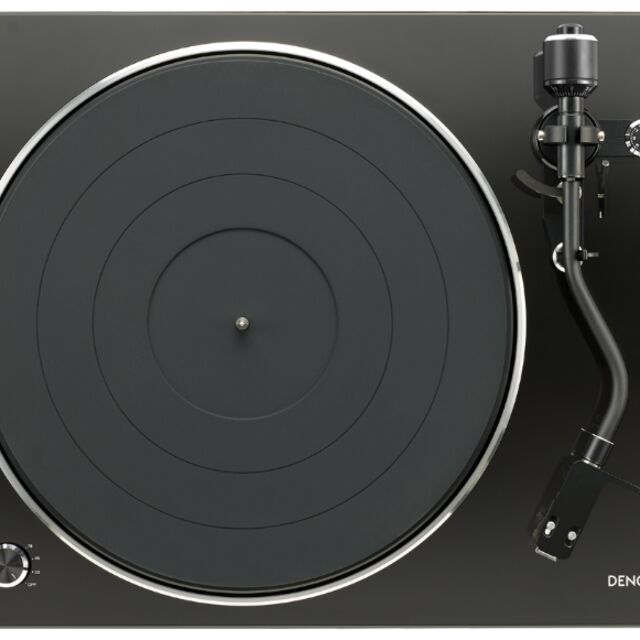
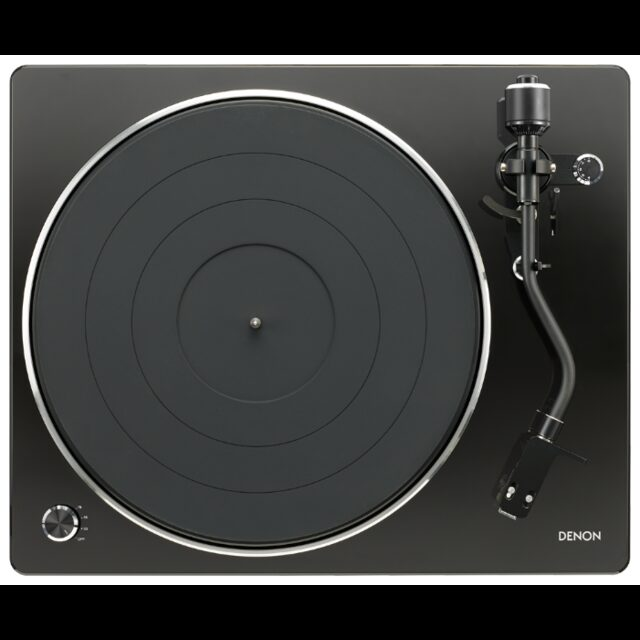
pkg3-114: высота плеера на телефоне числом, цвета как на ПК, удаление в карандаше, белые столбики, обводка окна на ПК, обложка 4 без обрезки

diff --git a/sega-chat/public/app.js b/sega-chat/public/app.js
@@ -8,7 +8,7 @@
 const $ = (s, r = document) => r.querySelector(s);
 const $$ = (s, r = document) => [...r.querySelectorAll(s)];
 // метка выпуска: видна в настройках и в журнале, чтобы всегда знать, что стоит в облаке
-const BUILD = 'pkg3-113';
+const BUILD = 'pkg3-114';
 /* pkg3-80: звук игр — модуль public/game-sound.js (синтез кодом, Web Audio).
    pkg3-81: одиннадцать правок владельца — карта не выделяется пальцем, «Далее»
    ждёт нажатия, находки пишутся прямо на карте, звук просыпается после сна
@@ -5268,8 +5268,7 @@ async function ydConnect() {
  *  браузер не умеет ни того, ни другого — остаётся неподвижный кадр.
  *  В «эконом-режиме» (S.eco) движение выключено совсем. */
 const MUS_VIZ_ANIM = '<picture class="mus-viz-anim">'
-  + '<source srcset="img/music-eq.webp" type="image/webp">'
-  + '<img src="img/music-eq.gif" alt=""></picture>';
+  + '<img src="img/music-eq.gif" alt=""></picture>';   // pkg3-114: белые столбики владельца; GIF 111 КБ (WebP вышел тяжелее)
 /** pkg3-112: полоса-эквалайзер между обложкой и перемоткой. Три состояния:
  *  «on» — играет (живая картинка), «still» — пауза посреди трека (стоп-кадр),
  *  «off» — трек не запущен / стоп / кончился (пустая рамка). В эконом-режиме
@@ -5327,6 +5326,58 @@ function musicNowUi() {
 /** pkg3-111: бегущая строка названия ходит ТУДА-ОБРАТНО и не показывает
  * пустоту: меряем, на сколько название шире своей ячейки, и отдаём это число
  * оформлению (--mq-shift). Влезает целиком — стоит на месте. */
+/** pkg3-114: убрать трек из плейлиста (из меню карандаша; раньше — крестик в строке). */
+async function musTrackRemove(pl, i) {
+  if (!pl || !pl.tracks || !pl.tracks[i]) return;
+  if (!confirm('Убрать трек «' + (pl.tracks[i].title || pl.tracks[i].url) + '» из плейлиста?')) return;
+  // pkg3-88: если убирают виджет, который звучит прямо сейчас, — гасим панель,
+  // иначе чужой плеер продолжал бы играть «без хозяина»
+  const gone = pl.tracks[i];
+  if (musicIsWidget(gone) && MUS.widget && MUS.widget.id === gone.id) musWidgetStop();
+  pl.tracks.splice(i, 1);
+  await musicSave(); openMusic(pl.id);
+}
+/** pkg3-114: высота плеера на телефоне считается ЧИСЛОМ, а не оформлением:
+ * iPhone дважды не дал колонке узнать свою высоту (113-й), и список выталкивал
+ * кнопки за экран. Теперь: окно = видимая высота экрана, тело = окно минус шапка,
+ * список = тело минус все остальные блоки. Пересчёт при открытии, повороте,
+ * смене размера и на тике звука. На ПК не вмешиваемся. */
+function musFitList() {
+  const md = document.getElementById('modal');
+  if (!md || !md.classList.contains('mus-modal') || md.classList.contains('hidden')) return;
+  const box = md.querySelector('.modal-box'), head = md.querySelector('.modal-head');
+  if (!window.matchMedia('(max-width:900px)').matches) {   // ПК: оформление справляется само
+    if (box) box.style.height = '';
+    return;
+  }
+  const body = document.getElementById('modal-body');
+  const wrap = body && body.querySelector('.mus-wrap');
+  const lw = wrap && wrap.querySelector('.mus-listwrap');
+  if (!box || !head || !body || !wrap || !lw) return;
+  const vh = (window.visualViewport && window.visualViewport.height) || window.innerHeight;
+  const land = document.documentElement.getAttribute('data-land');
+  const boxH = land ? window.innerWidth : vh;   // окно развёрнуто «стоймя» при повороте
+  box.style.height = boxH + 'px';
+  const bodyH = boxH - head.offsetHeight;
+  body.style.height = bodyH + 'px'; body.style.flex = 'none';
+  const cs = getComputedStyle(body);
+  const inner = bodyH - (parseFloat(cs.paddingTop) || 0) - (parseFloat(cs.paddingBottom) || 0);
+  wrap.style.height = inner + 'px'; wrap.style.flex = 'none';
+  const gap = parseFloat(getComputedStyle(wrap).rowGap || getComputedStyle(wrap).gap) || 4;
+  let others = 0, n = 0;
+  for (const el of wrap.children) {
+    if (el === lw) { n++; continue; }
+    const st = getComputedStyle(el);
+    if (st.display === 'none' || st.position === 'fixed') continue;
+    others += el.offsetHeight + (parseFloat(st.marginTop) || 0) + (parseFloat(st.marginBottom) || 0);
+    n++;
+  }
+  const h = Math.max(72, Math.floor(inner - others - gap * Math.max(0, n - 1)));
+  lw.style.height = h + 'px'; lw.style.flex = 'none'; lw.style.minHeight = '0';
+  const list = lw.querySelector('.mus-list');
+  if (list) { list.style.height = h + 'px'; list.style.maxHeight = h + 'px'; }
+  musSbarSync();
+}
 /** pkg3-113: своя полоса прокрутки списка на телефоне: iPhone родную прячет,
  * а владелец просил постоянную. Высота и положение бегунка — из прокрутки списка. */
 function musSbarSync() {
@@ -5371,7 +5422,7 @@ function musicTickUi() {
   // на паузе строка замирает и значок возвращается к ▶.
   const tog2 = document.getElementById('mus-toggle');
   if (tog2 && !MUS.widget) tog2.textContent = (!a.paused && !a.ended) ? '❚❚' : '▶';
-  musSbarSync();                      // pkg3-113: бегунок своей полосы прокрутки
+  musFitList();                       // pkg3-114: высота списка числом (телефон)
   const rowsBox = document.querySelector('#modal .mus-trs[data-pl]');
   if (rowsBox) {
     const rpl = rowsBox.getAttribute('data-pl');
@@ -5718,8 +5769,7 @@ async function openMusic(wantId) {
             <button class="mus-pbtn" data-mus-play="${i}" title="Играть / пауза">${cur && MUS.a && !MUS.a.paused ? '❚❚' : '▶'}</button>
             <span class="mus-ti" title="${escapeHtml(t.title || t.url || t.path || '')}"><span class="mq${(String(t.title || t.url || t.path || '').length > 24) ? '' : ' mq-s'}">${escapeHtml(t.title || t.url || t.path || '')}</span>${musicIsWidget(t) ? ` <span class="mus-badge-y" title="Встроенный плеер Яндекс.Музыки: звук играет Яндекс, а без входа в его аккаунт песни звучат отрывками по 30 секунд">Я · ${musicWhatRu(t.what)}</span>` : ''}${musicIsDisk(t) ? ' <span class="mus-badge-d" title="Файл с вашего Яндекс.Диска: играется по свежей временной ссылке, место на сервере не занимает">☁ диск</span>' : ''}</span>
             ${musicIsWidget(t) ? `<a class="mini mus-y-link" data-mus-y="${i}" href="${escapeHtml(t.page || t.url)}" target="_blank" rel="noopener noreferrer" title="Открыть в Яндекс.Музыке">↗</a>` : ''}
-            <button class="mus-rowb" data-mus-edit="${i}" title="Правка трека: название, ссылка, обложка">✎</button>
-            <button class="mus-rowb danger" data-mus-del="${i}" title="Убрать трек">✕</button>
+            <button class="mus-rowb" data-mus-edit="${i}" title="Правка трека: название, ссылка, обложка, убрать из плейлиста">✎</button>
           </div>`;
         }).join('') || '<div class="tiny muted">В плейлисте пока нет треков — добавьте первый через «⋯» → «Умная вставка».</div>'}</div>`
         : '<div class="tiny muted">Создайте первый плейлист кнопкой «Плейлисты ▾» — в нём будут треки-ссылки на файлы.</div>';
@@ -5804,6 +5854,7 @@ async function openMusic(wantId) {
   musicNowUi(); musicTickUi(); musVizSync();
   const list0 = $('#mus-list');
   if (list0) { list0.addEventListener('scroll', musSbarSync, { passive: true }); setTimeout(musSbarSync, 0); }
+  musFitList(); setTimeout(musFitList, 50); setTimeout(musFitList, 350);   // pkg3-114: сразу, после раскладки и после анимации появления
   const vol0 = $('#mus-vol');
   if (vol0) vol0.value = String(Math.round(musicAudio().volume * 100));
   // pkg3-105: три оверлея («⋯», «Плейлисты ▾», меню трека) — открыть/закрыть
@@ -5900,6 +5951,7 @@ async function openMusic(wantId) {
       + '<div class="mus-sec"><button class="mini" data-tm="ren">✎ название и ссылка</button> '
       + '<button class="mini" data-tm="cov">🖼 прикрепить обложку</button> '
       + (t.cover ? '<button class="mini" data-tm="uncov">убрать ручную обложку</button> ' : '')
+      + '<button class="mini mus-tm-del" data-tm="del">✕ убрать из плейлиста</button> '   // pkg3-114: крестик из строки переехал сюда
       + '<button class="mini" data-tm="close">Закрыть</button></div>';
     trOvl.classList.add('show');
     menu.onclick = async e => {
@@ -5907,6 +5959,7 @@ async function openMusic(wantId) {
       if (!bb) return;
       const act = bb.getAttribute('data-tm');
       if (act === 'close') { trOvl.classList.remove('show'); return; }
+      if (act === 'del') { trOvl.classList.remove('show'); await musTrackRemove(pl, i); return; }
       if (act === 'cov') {
         const fi = $('#mus-cov-file');
         if (!fi) return;
@@ -5947,17 +6000,6 @@ async function openMusic(wantId) {
       t.title = title.trim() || t.title || t.url;
       await musicSave(); openMusic(pl.id);
     };
-  });
-  for (const b of $$('#modal [data-mus-del]')) b.addEventListener('click', async () => {
-    if (!pl) return;
-    const i = Number(b.getAttribute('data-mus-del'));
-    if (!confirm('Убрать трек «' + (pl.tracks[i].title || pl.tracks[i].url) + '» из плейлиста?')) return;
-    // pkg3-88: если убирают виджет, который звучит прямо сейчас, — гасим панель,
-    // иначе чужой плеер продолжал бы играть «без хозяина»
-    const gone = pl.tracks[i];
-    if (musicIsWidget(gone) && MUS.widget && MUS.widget.id === gone.id) musWidgetStop();
-    pl.tracks.splice(i, 1);
-    await musicSave(); openMusic(pl.id);
   });
   const addTr = $('#mus-add-tr');
   if (addTr) addTr.addEventListener('click', async () => {
@@ -9022,7 +9064,9 @@ document.addEventListener('mousedown', e => {
   if (!e.target.closest('#emoji-pop,.emoji-btn')) closeEmoji();
 });
 window.addEventListener('resize', closeEmoji);
-window.addEventListener('resize', () => { if (S.musOpen) musSbarSync(); });   // pkg3-113
+window.addEventListener('resize', () => { if (S.musOpen) musFitList(); });   // pkg3-113/114
+window.addEventListener('orientationchange', () => { if (S.musOpen) { setTimeout(musFitList, 60); setTimeout(musFitList, 400); } });
+if (window.visualViewport) window.visualViewport.addEventListener('resize', () => { if (S.musOpen) musFitList(); });
 
 $('#notify-sound').addEventListener('change', async e => {
   S.notify.sound = e.target.checked;
@@ -9608,6 +9652,10 @@ function modal(title, html, opts) {
   const md = $('#modal');
   md.classList.remove('mus-modal');
   if (opts && opts.cls) md.classList.add(opts.cls);
+  // pkg3-114: высоты, посчитанные числом для плеера на телефоне, другим окнам не нужны
+  const bx = md.querySelector('.modal-box'), bd = md.querySelector('.modal-body');
+  if (bx) bx.style.height = '';
+  if (bd) { bd.style.height = ''; bd.style.flex = ''; }
   $('#modal-title').textContent = title;
   $('#modal-body').innerHTML = html;
   paintIcons($('#modal'));

diff --git a/sega-chat/public/styles.css b/sega-chat/public/styles.css
@@ -1819,6 +1819,10 @@ button.mini.mus-add-sm{width:auto;min-width:34px;margin-top:0;padding:2px 8px;fo
 .mus-v105 .mus-plsrow .mus-plsopen{flex:1 1 auto;text-align:left;white-space:nowrap;overflow:hidden;text-overflow:ellipsis}
 .mus-v105 .mus-listhead{font-size:12px;color:var(--accent-2);margin:2px 4px 6px}
 
+/* pkg3-114: на ПК у окна «Моя музыка» чёткая яркая обводка */
+#modal.mus-modal .modal-box{border:2px solid var(--accent-2);box-shadow:0 0 0 1px rgba(0,0,0,.25),0 0 22px rgba(47,198,246,.45),0 30px 70px rgba(5,25,40,.4)}
+.mus-v105 .mus-tm-del{border-color:var(--red);color:var(--red)}   /* pkg3-114: «убрать из плейлиста» в меню карандаша */
+
 /* ═══ pkg3-109/110: ТЕЛЕФОН — «Моя музыка» как настоящий плеер ═══
    Дефект 109-го: контейнер окна оставался «резиновым» (.mus-wrap наследовал
    flex-wrap:wrap), поэтому на телефоне содержимое не влезало по высоте и
@@ -1873,30 +1877,26 @@ button.mini.mus-add-sm{width:auto;min-width:34px;margin-top:0;padding:2px 8px;fo
   /* pkg3-111: окно музыки на телефоне — чёрный плеер до краёв экрана, без
      рамок и подложек (любая гамма: светлая, тёмная, синт) */
   #modal.mus-modal{background:#000}
-  #modal.mus-modal .modal-box{background:#000;border:0;color:#f2f2f2}
+  #modal.mus-modal .modal-box{background:#000;border:0;box-shadow:none;color:#f2f2f2}
   #modal.mus-modal .modal-head{background:#000;border-bottom:0}
   #modal.mus-modal .modal-head h3{color:#fff}
   #modal.mus-modal .modal-body{background:#000}
-  #modal.mus-modal .muted,#modal.mus-modal .tiny.muted{color:#9a9aa6}
-  #modal.mus-modal .mus-srow input{background:#141418;border:1px solid #2a2a32;color:#f2f2f2;border-radius:12px;padding:9px 12px}
-  #modal.mus-modal .mus-srow input::placeholder{color:#7d7d8a}
-  #modal.mus-modal .mini{background:#17171c;color:#e8e8ee;border-color:#2e2e38}
-  #modal.mus-modal .mini.primary{background:var(--accent);color:#fff;border-color:transparent}
-  #modal.mus-modal .mus-coverbox{border:1px solid #3a3a46;border-radius:14px;background:#000}
+  /* pkg3-114: кнопки, поля, список и рамки — ровно те же, что на ПК (свои
+     «телефонные» перекраски убраны); чёрный только сам фон окна и поля вокруг */
+  #modal.mus-modal .mus-srow input{border-radius:12px;padding:9px 12px}
+  #modal.mus-modal .mus-coverbox{border-radius:14px;background:#000}
   /* pkg3-112: список обведён и с постоянной полосой прокрутки */
-  #modal.mus-modal .mus-list{border:1px solid #3a3a46;background:#000;padding:4px;border-radius:12px;overflow-y:auto;
+  #modal.mus-modal .mus-list{background:#000;padding:4px;border-radius:12px;overflow-y:auto;
     scrollbar-width:none;-webkit-overflow-scrolling:touch}
   #modal.mus-modal .mus-list::-webkit-scrollbar{display:none;width:0;height:0}
-  #modal.mus-modal .mus-sbar{display:block;flex:0 0 6px;width:6px;border-radius:3px;background:#1f1f26;position:relative;overflow:hidden}
-  #modal.mus-modal .mus-sbar i{position:absolute;left:0;right:0;top:0;height:30%;border-radius:3px;background:#8a8a9c;min-height:24px}
+  #modal.mus-modal .mus-sbar{display:block;flex:0 0 6px;width:6px;border-radius:3px;background:var(--panel-2);border:1px solid var(--line);box-sizing:border-box;position:relative;overflow:hidden}
+  #modal.mus-modal .mus-sbar i{position:absolute;left:0;right:0;top:0;height:30%;border-radius:3px;background:var(--accent-2);min-height:24px}
   #modal.mus-modal .mus-sbar.none i{display:none}
-  #modal.mus-modal .mus-eq{height:36px;margin:0;border-color:#3a3a46}
+  #modal.mus-modal .mus-eq{height:36px;margin:0}
   #modal.mus-modal .mus-nowt{font-size:13px}
   #modal.mus-modal .mus-tr{padding:7px 6px}
-  #modal.mus-modal .mus-tr.cur{background:rgba(255,255,255,.08);outline:0}
-  #modal.mus-modal .mus-rowb{border-color:#2e2e38;color:#9a9aa6;background:transparent}
   #modal.mus-modal .mus-foot{border-top:1px solid var(--line);padding-top:10px;gap:10px}
-  #modal.mus-modal .mus-mwin{background:#101014;border-color:#2e2e38;color:#f2f2f2}
+  #modal.mus-modal .mus-mwin{color:#f2f2f2}
   /* меню «+»: список чатов под ним приглушается — сразу видно, что меню открыто */
   #plus-scrim{display:block;position:absolute;inset:0;z-index:1;background:rgba(8,20,28,.42);
     opacity:0;pointer-events:none;transition:opacity .16s ease}

diff --git a/sega-chat/public/sw.js b/sega-chat/public/sw.js
@@ -26,7 +26,7 @@ self.addEventListener('notificationclick', event => {
 /* Кэш статики для быстрого холодного старта: страница, стили, скрипт, иконки.
    Стратегия «кэш сразу + обновление в фоне»: открытие чата не ждёт сеть,
    а свежая версия прилетает к следующему запуску. */
-const STATIC_CACHE = 'sega-static-v106';
+const STATIC_CACHE = 'sega-static-v107';
 const STATIC_RE = /(\.css|\.js|\.png|\.jpg|\.svg|\.webmanifest|\.ico)$|^\/$|index\.html$/;
 /* Новый воркер встаёт на вахту сразу (не ждёт закрытия вкладок) и вычищает
    старые кэши, чтобы друзья получили свежий app.js при первой же загрузке. */

diff --git a/sega-chat/README.md b/sega-chat/README.md
@@ -483,6 +483,7 @@ sega-chat/
 | pkg3-13 | сентябрь 2026 | Переименование в SEGA-CHAT, фирменный логотип; последняя точка старой синхронизации зеркала |
 | pkg3-14 | конец сентября 2026 | Шифрованные резервные копии в облачный бакет (`backup.js`, `s3.js`, `iam.js`); полный переезд в Yandex Cloud |
 | pkg3-15 | 01.10.2026 | «Тихий час»: адаптивный опрос ленты, push будит спящее окно; экономия гранта |
+| pkg3-114 | 02.11.2026 | **Пять замечаний владельца к 113-му.** (1) Телефон: окно по-прежнему не влезало — iPhone второй раз не дал колонке узнать свою высоту через оформление. Теперь высота считается ЧИСЛОМ (`musFitList`): окно = видимая высота экрана (`visualViewport`), тело = окно минус шапка, список = тело минус все остальные блоки и промежутки; пересчёт при открытии (сразу, через 50 и 350 мс), на тике звука, при повороте и смене видимой области; другим окнам посчитанные высоты не достаются. Цвета кнопок, полей, строк и рамок на телефоне — ровно как на ПК (свои «телефонные» перекраски убраны), чёрный только фон окна и поля вокруг; рамки и тени у окна нет — границей служит сам телефон. (2) Крестик «убрать трек» ушёл из строки списка в меню карандаша («✕ убрать из плейлиста», красным, с подтверждением; звучащий виджет Яндекса гасится как раньше). (3) Полоса под обложкой — белые столбики владельца (GIF 650×160 → 560×80, 67 кадров, 111 КБ; WebP для чёрно-белой картинки вышел тяжелее и убран). (4) На ПК у окна «Моя музыка» чёткая яркая обводка (2px акцентного цвета и свечение); на телефоне её нет. (5) Обложка 4 (проигрыватель) вписана целиком с чёрными полями, без обрезки. Тесты: **3276 ✓, 0 провалов** (новый `test/ui114.mjs` 39 ✓; поправлены `ui109`, `ui111`–`ui113`, `music89`). Кэш sega-static-v107. BUILD=pkg3-114 в lib/api.js и public/app.js. Новых зависимостей нет; перенос данных не нужен. |
 | pkg3-113 | 02.11.2026 | **Починка по скриншотам владельца к 112-му (телефон).** Дефект: список треков раздулся на весь экран — кнопки ▶ ⏮ ⏭, громкость и тумблер ушли за нижний край, полосы прокрутки не было, одна строка — огромным шрифтом. Причины: (а) iPhone не понимает `height:100%` у обёртки плеера внутри flex-ребёнка — колонка не знала своей высоты и росла по содержимому (в 111-м это скрывал потолок 220px внутреннего списка, снятый в 112-м ради одной полосы прокрутки); (б) iPhone прячет полосу прокрутки, стили `::-webkit-scrollbar` не помогают; (в) iPhone «раздувает» шрифт широкой строки без переносов. Сделано: тело окна — flex-колонка, обёртка плеера — её растягиваемый ребёнок (`flex:1 1 auto;min-height:0`, без `height:100%`); список обёрнут в `.mus-listwrap` (единственный тянущийся блок) и рядом с ним СВОЯ постоянная полоса прокрутки `#mus-sbar` (дорожка 6px, бегунок считается из прокрутки — `musSbarSync`, родная полоса спрятана; на ПК остаётся родная); строке названия запрещено авто-увеличение шрифта. Пожелания: кнопки ▶ ⏮ ⏭ на телефоне точно как на ПК (58×58, тот же цвет, тот же промежуток), низ с громкостью и тумблером — с линией как на ПК; обложка и название — одна общая закруглённая рамка без деления пополам (колонки 44% / остаток, без перегородки и отдельного фона), картинка вписана целиком без обрезки с полями 10px; выбор стандартной обложки открывается касанием по всей левой части. Тесты: **3238 ✓, 0 провалов** (новый `test/ui113.mjs` 32 ✓; поправлены `ui109`–`ui112`). Кэш sega-static-v106. BUILD=pkg3-113 в lib/api.js и public/app.js. Новых зависимостей нет; перенос данных не нужен. |
 | pkg3-112 | 02.11.2026 | **Шесть замечаний владельца к окну «Моя музыка».** (1) На ПК в плейлисте было две полосы прокрутки (внутренний `.mus-trs` прокручивался сам внутри прокручиваемой рамки `.mus-list`) — теперь одна. (2) На телефоне список обведён рамкой с закруглением и имеет постоянную полосу прокрутки (`overflow-y:scroll`, тонкая полоса нарисована явно для WebKit и Firefox). (3) Окно музыки на телефоне не ложится набок: при открытии просим замок портрета (`screen.orientation.lock`, где браузер даёт — Android/приложение), а где не даёт (iPhone) — оформление само разворачивает окно обратно «стоймя» при альбомной ориентации (`data-land` + поворот окна на ±90°). (4) Квадратной живой картинки рядом с обложкой больше нет — справа от обложки название текущего трека с переносом по словам. (5) Между обложкой и перемоткой — узкая полоса-эквалайзер во всю ширину (из GIF владельца: вырезана полоса с бегущими столбиками, отзеркалена для ширины, 560×80, GIF 108 КБ / WebP 74 КБ / стоп-кадр 5 КБ) в закруглённой рамке: играет — движется, пауза посреди трека — стоп-кадр, трек не запущен / крестик (стоп) / кончился — пусто. (6) Касание по стандартной обложке открывает выбор из четырёх обложек владельца (`music-cover.jpg`, `music-cover2.jpg`, `music-cover4.jpg` 640×640, `music-cover3.gif` 480×480 анимированная кассета); выбор хранится на устройстве (`sega.musCover`); своя обложка трека по-прежнему важнее. Старые `music-viz.*` убраны. Тесты: **3205 ✓, 0 провалов** (новый `test/ui112.mjs` 49 ✓; `ui109` поправлен под полосу). Кэш sega-static-v105. BUILD=pkg3-112 в lib/api.js и public/app.js. Новых зависимостей нет; перенос данных не нужен. |
 | pkg3-111 | 02.11.2026 | **«Моя музыка» на телефоне — чёрный плеер до краёв экрана (пожелания владельца по скриншоту 110-го).** Причина оставшегося дефекта: общее правило `button.primary{width:100%}` вместе с `flex:0 0 auto` из 110-го делало кнопку «Найти» во всю ширину и выдавливало «⋯» за край. Сделано: «Найти» короткая, поле поиска тянется на всю ширину, подсказка в поле «найти трек»; текст под строкой поиска убран (строка состояния появляется только во время поиска: «Спрашиваю сайты…», «Найдено: N»); подпись «Сейчас играет» под обложкой убрана; перемотка переехала под обложку, выше плейлиста; ⏮ ⏭ того же размера, что ▶ (58 px на компьютере, 60 на телефоне, вместе ужимаются на низких экранах); на телефоне окно и поля вокруг — чёрные, без рамок, подложек и линий (в любой гамме, текст светлый); обложка по умолчанию — файл владельца `img/music-cover.jpg` (74 КБ; своя обложка трека по-прежнему важнее, при её сбое показывается эта); бегущая строка названия ходит туда-обратно (`musMqFit` меряет переполнение и отдаёт `--mq-shift`, движение `alternate` с паузами по краям), пустоты не показывает, короткие названия стоят. Раскладка телефона переведена с сетки на колонку без переноса (`flex-flow:column nowrap`, список `flex:1 1 0`), чтобы появление линии загрузки поиска или скрытие строк не ломало строки сетки. Тесты: **3155 ✓, 0 провалов** (новый `test/ui111.mjs` 52 ✓; поправлены `music96`, `ui109`, `ui110`). Кэш sega-static-v104. BUILD=pkg3-111 в lib/api.js и public/app.js. Новых зависимостей нет; перенос данных не нужен. |

diff --git a/БРИФ-ДЛЯ-НОВОГО-АГЕНТА.md b/БРИФ-ДЛЯ-НОВОГО-АГЕНТА.md
@@ -183,9 +183,9 @@ curl -fsSL https://raw.githubusercontent.com/Pilipenko123/Marty/main/sega-chat/c
 
 | Площадка | Версия |
 | --- | --- |
-| VPS Sprintbox (`segachat.pilpro.ru`) | **pkg3-112** (установлен владельцем 02.11.2026; скриншоты: на ПК хорошо, на телефоне список раздулся); ждёт одной команды `setup.sh` для 113-го |
-| Зеркало GitHub `main` | **pkg3-112** (пул-реквест #13 слит 02.11.2026), кэш `sega-static-v105` |
-| Выпуск **pkg3-113** (эта сессия) | починка телефона по скриншоту (высота колонки без height:100%, своя полоса прокрутки, шрифт), кнопки как на ПК, единая рамка обложки; собран, протестирован (3238 ✓), лежит в ветке `arena/f8f70058-marty` и ждёт слияния пул-реквеста |
+| VPS Sprintbox (`segachat.pilpro.ru`) | **pkg3-113** (установлен владельцем 02.11.2026; скриншот: на телефоне список ВСЁ ЕЩЁ раздут); ждёт одной команды `setup.sh` для 114-го |
+| Зеркало GitHub `main` | **pkg3-113** (пул-реквест #14 слит 02.11.2026), кэш `sega-static-v106` |
+| Выпуск **pkg3-114** (эта сессия) | высота плеера на телефоне числом (`musFitList`), цвета как на ПК, удаление трека в меню карандаша, белые столбики, обводка окна на ПК, обложка 4 без обрезки; собран, протестирован (3276 ✓), лежит в ветке `arena/bac18dd1-marty` и ждёт слияния пул-реквеста |
 | Yandex Cloud | pkg3-51, не обновляется |
 ### История последних недель (важно для понимания, почему сейчас 108-й)
 
@@ -212,6 +212,32 @@ curl -fsSL https://raw.githubusercontent.com/Pilipenko123/Marty/main/sega-chat/c
   #1 (игральный кубик, ветка `arena/01a0426c-marty`) и #3 (3D-трасса
   «Временной вираж», ветка `arena/01a05641-marty`). Ветки НЕ удалялись —
   восстановить работу можно в любой момент.
+
+### Что сделано в pkg3-114 (пять замечаний владельца к 113-му)
+
+1. **Телефон всё ещё не влезал** (iPhone, приложение с рабочего стола): flex-
+   цепочка 113-го тоже не дала списку высоту. Теперь `musFitList()` считает
+   ЧИСЛОМ: `box.style.height = visualViewport.height` (при `data-land` —
+   `innerWidth`), `body = box − head`, `wrap = body − padding`, `listwrap =
+   wrap − сумма остальных детей − gap·(n−1)`, min 72px; `list.style.height/
+   maxHeight` тоже. Вызовы: открытие (0/50/350 мс), тик звука (`musicTickUi`),
+   `resize`, `orientationchange`, `visualViewport.resize`. `modal()` чистит
+   инлайновые высоты у box/body для других окон. На ПК (`>900px`) — выход.
+   Если и это не поможет — проверять, не перекрывает ли `#modal` что-то иное
+   (например, что `.modal-box` вообще получает `display:flex` на iOS).
+2. Цвета на телефоне = ПК: убраны все перекраски `#modal.mus-modal .mini/.mus-
+   srow input/.mus-rowb/.mus-tr.cur/.muted/.mus-mwin`, рамки `#3a3a46`. Чёрные
+   только `#modal.mus-modal`, `.modal-box` (border:0, box-shadow:none),
+   `.modal-head`, `.modal-body`, фон `.mus-coverbox`/`.mus-list`.
+3. Крестик из строки убран; в меню карандаша пункт `data-tm="del"` →
+   `musTrackRemove(pl, i)` (confirm + гашение виджета). `music89` поправлен.
+4. Полоса `music-eq.gif` — из белой GIF владельца (650×160 → crop 647×130 →
+   560×80, каждый 3-й кадр, 67 кадров, 111 КБ). `music-eq.webp` удалён
+   (тяжелее GIF). `MUS_VIZ_ANIM` — `<picture><img gif></picture>`.
+5. ПК: `#modal.mus-modal .modal-box{border:2px solid var(--accent-2);box-shadow:
+   … 0 0 22px rgba(47,198,246,.45)}` до мобильного блока.
+6. `music-cover4.jpg` — Denon вписан в 640×640 с чёрными полями (31 КБ).
+`test/ui114.mjs` 39 ✓. Кэш v107. Глазами не проверено.
 
 ### Что сделано в pkg3-113 (скриншоты владельца к 112-му)
 
@@ -483,6 +509,7 @@ resize; родная полоса скрыта; на ПК `.mus-sbar{display:non
 
 | Выпуск | Когда | Главное |
 | --- | --- | --- |
+| **pkg3-114** | 02.11.2026 | **Пять замечаний к 113-му.** Высота плеера на телефоне числом (`musFitList`: окно/тело/список в px по `visualViewport`), цвета элементов как на ПК (чёрный только фон, рамок окна нет), удаление трека в меню карандаша, полоса — белые столбики владельца (GIF 560×80), на ПК яркая обводка окна, обложка 4 без обрезки. Тесты 3276 ✓ (новый `test/ui114.mjs` 39). Кэш v107 |
 | **pkg3-113** | 02.11.2026 | **Починка телефона по скриншоту к 112-му.** Колонка плеера без `height:100%` (Safari), список в `.mus-listwrap` со своей постоянной полосой прокрутки `#mus-sbar`, запрет авто-увеличения шрифта; кнопки и низ как на ПК; обложка и название в одной рамке (44%/остаток), картинка целиком без обрезки. Тесты 3238 ✓ (новый `test/ui113.mjs` 32). Кэш v106 |
 | **pkg3-112** | 02.11.2026 | **Шесть замечаний владельца к окну музыки.** Одна полоса прокрутки на ПК; на телефоне список в рамке с постоянной полосой; окно не ложится набок (замок ориентации + разворот CSS по `data-land`); справа от обложки название трека вместо картинки; узкая полоса-эквалайзер `#mus-eq` между обложкой и перемоткой (играет/стоп-кадр/пусто); выбор из четырёх стандартных обложек по касанию (`sega.musCover`). Тесты 3205 ✓ (новый `test/ui112.mjs` 49). Кэш v105 |
 | **pkg3-111** | 02.11.2026 | **«Моя музыка» на телефоне — чёрный плеер.** «Найти» короткая (была во всю ширину из-за `button.primary{width:100%}`), поле «найти трек» длинное, «⋯» на экране; тексты под поиском и под обложкой убраны; перемотка выше плейлиста; ⏮ ⏭ как ▶; чёрный фон без рамок; обложка по умолчанию — файл владельца `img/music-cover.jpg`; бегущая строка туда-обратно без пустоты (`musMqFit`); раскладка — колонка nowrap вместо сетки. Тесты 3155 ✓ (новый `test/ui111.mjs` 52). Кэш v104 |
